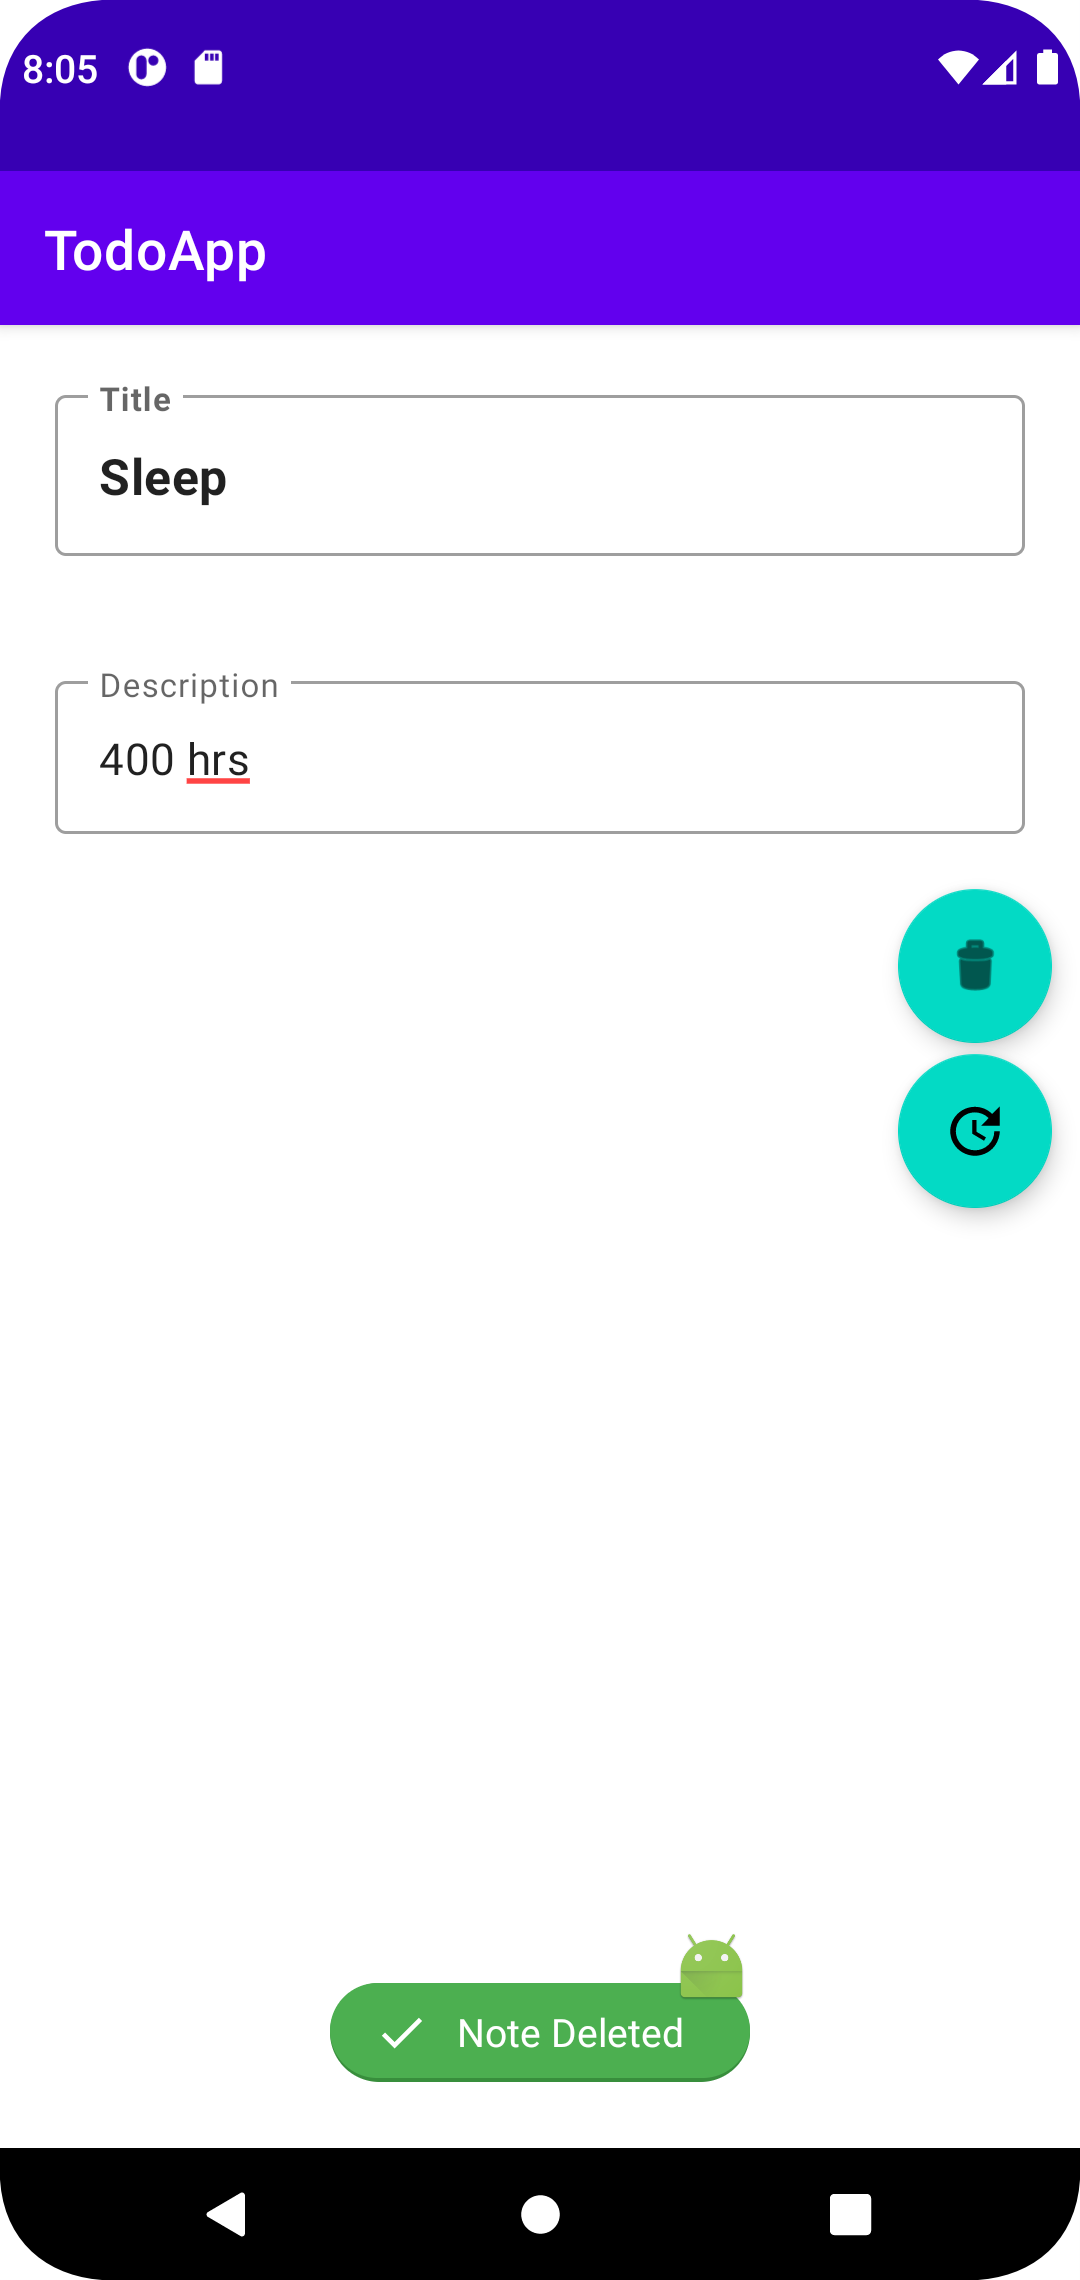
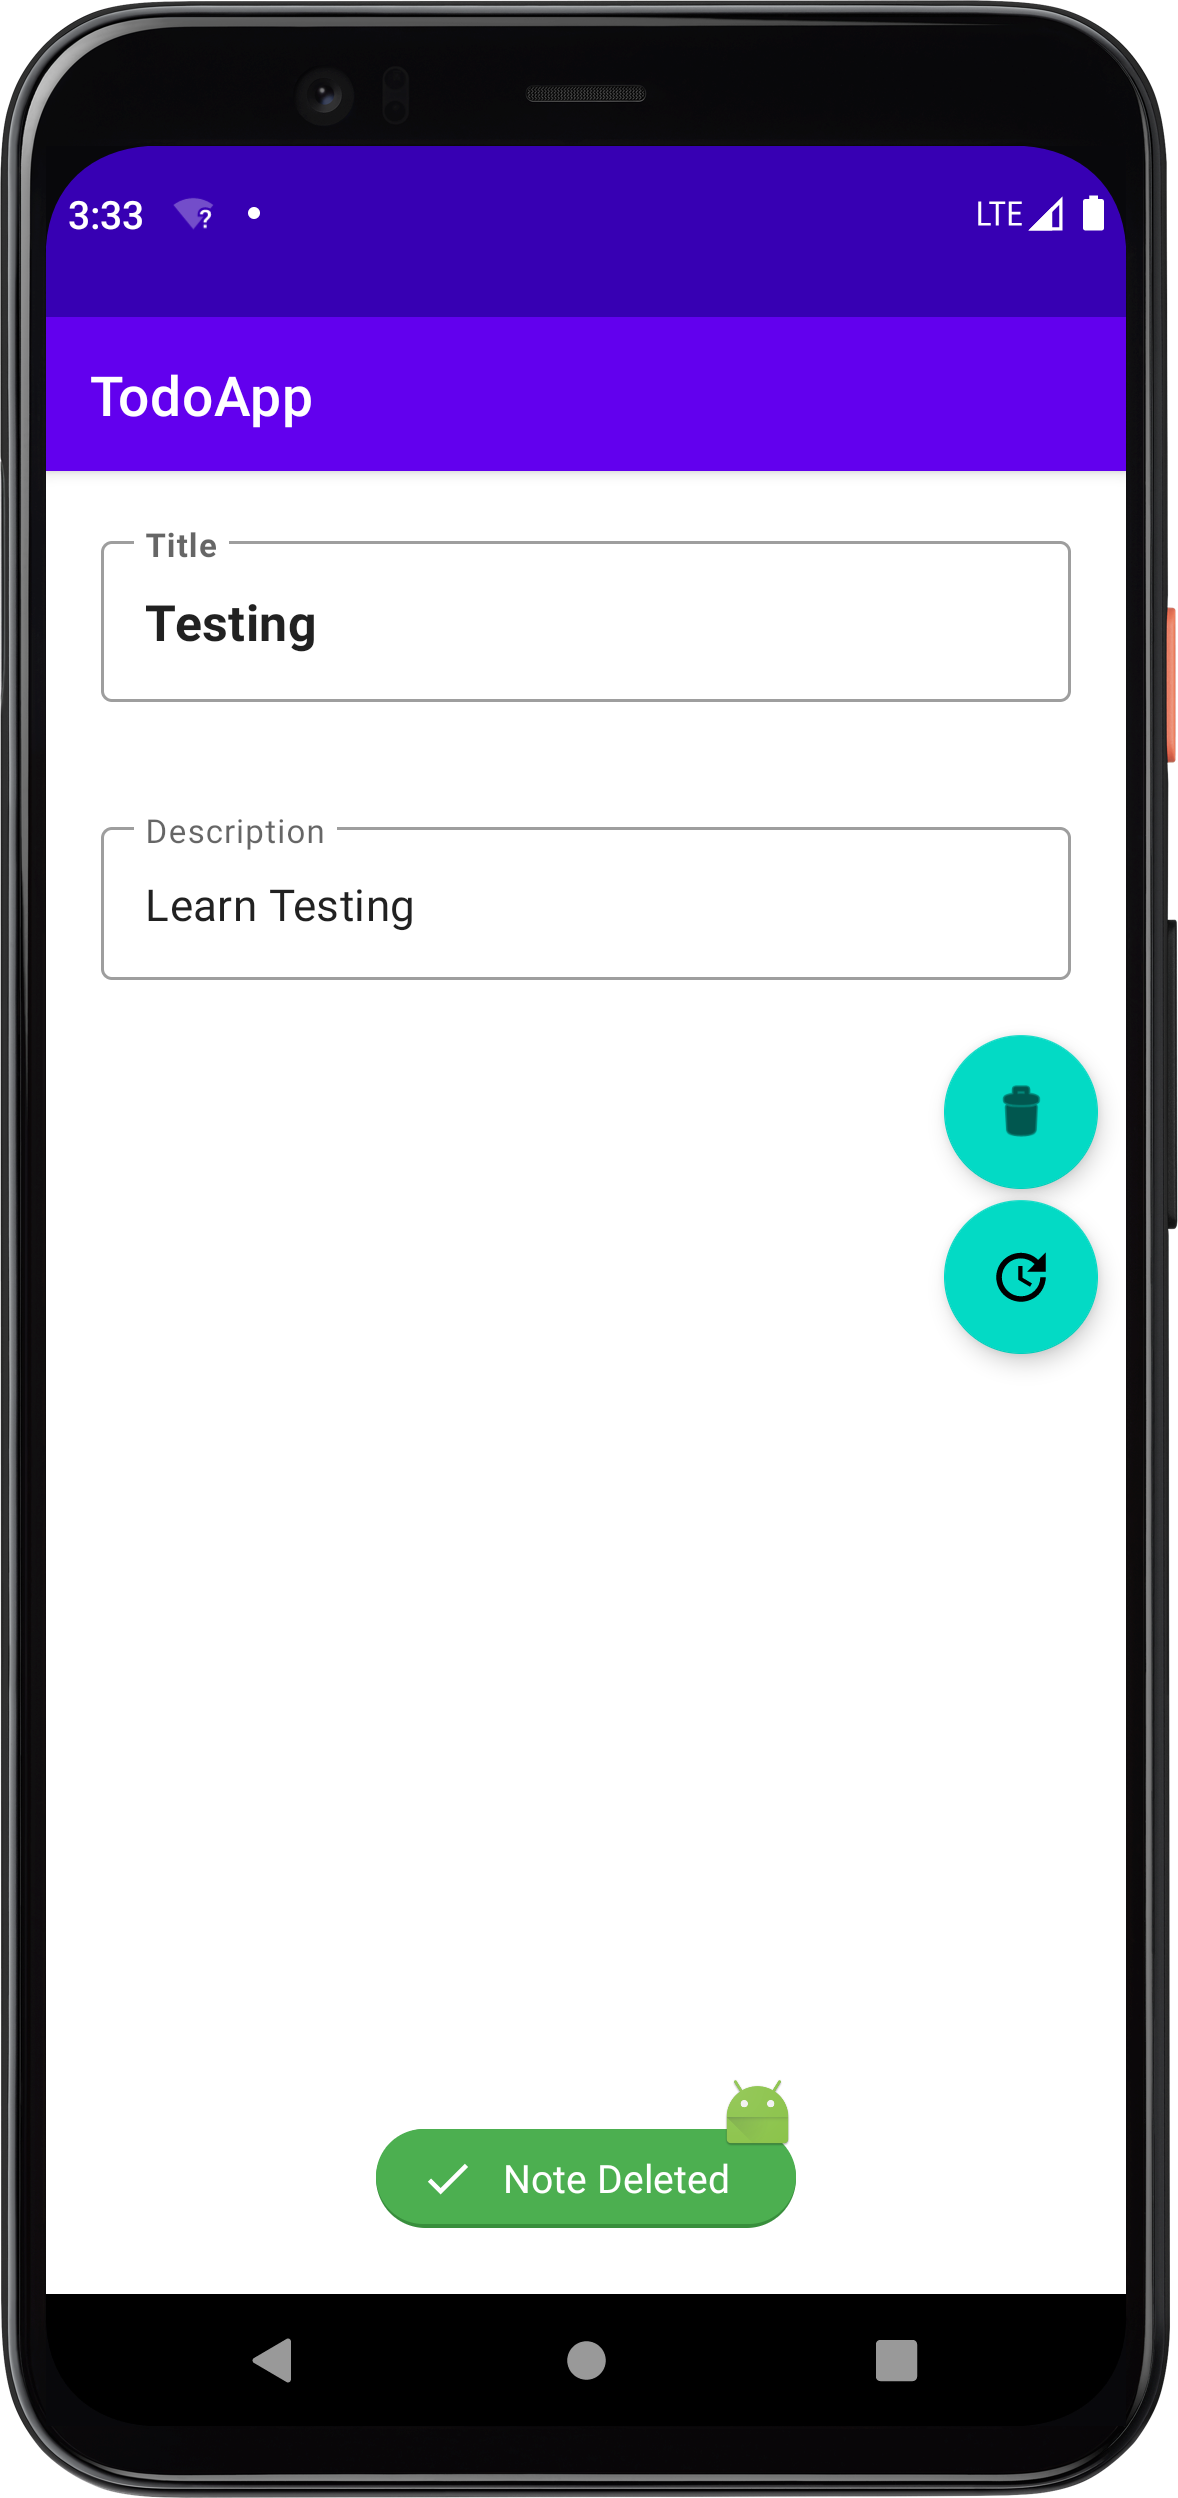
updated README and tests

Changed region(s): [[0.0, 0.0, 1.0, 1.0], [0.8861, 0.218, 0.9167, 0.2803]]

diff --git a/app/src/androidTest/java/com/example/todoapp/data/db/NoteDatabaseTest.kt b/app/src/androidTest/java/com/example/todoapp/data/db/NoteDatabaseTest.kt
@@ -1,0 +1,50 @@
+package com.example.todoapp.data.db
+
+import android.content.Context
+import androidx.room.Room
+import androidx.test.core.app.ApplicationProvider
+import androidx.test.ext.junit.runners.AndroidJUnit4
+import com.example.todoapp.data.dao.NoteDao
+import com.example.todoapp.data.entity.Note
+import com.google.common.truth.Truth.assertThat
+import junit.framework.TestCase
+import kotlinx.coroutines.runBlocking
+import org.junit.After
+import org.junit.Before
+import org.junit.Test
+import org.junit.runner.RunWith
+import java.io.IOException
+import kotlin.jvm.Throws
+
+@RunWith(AndroidJUnit4::class)
+class NoteDatabaseTest : TestCase() {
+
+    private lateinit var notedb: NoteDatabase
+    private lateinit var notedao: NoteDao
+
+    // Executes before each test
+    @Before
+    public override fun setUp() {
+        val context = ApplicationProvider.getApplicationContext<Context>()
+        notedb = Room.inMemoryDatabaseBuilder(
+            context, NoteDatabase::class.java
+        ).build()
+        notedao = notedb.noteDao
+    }
+    @Test
+    fun testSave() = runBlocking {
+        val note = Note(1, "alex", "learning", 2)
+        notedao.saveNote(note)
+        val notes = notedao.fetchAllNotes()
+        assertThat(notes.value?.contains(note)).isTrue()
+    }
+
+    // Executes after each test
+    @After
+    @Throws(IOException::class)
+    fun closeDb() {
+        notedb.close()
+    }
+}
+/*
+* */

diff --git a/README.md b/README.md
@@ -47,7 +47,7 @@ Build System: [Gradle](https://gradle.org/)
 
 ## Screenshots
 
-|<img src="assets/empty.png" width=250/>|<img src="assets/select.png" width=250/>|<img src="assets/save.png" width=250/>
+|<img src="assets/home.png" width=250/>|<img src="assets/select.png" width=250/>|<img src="assets/save.png" width=250/>
 |:----:|:----:|:----:|
 
 |<img src="assets/delete.png" width=250/>|<img src="assets/update.png" width=250/>|
